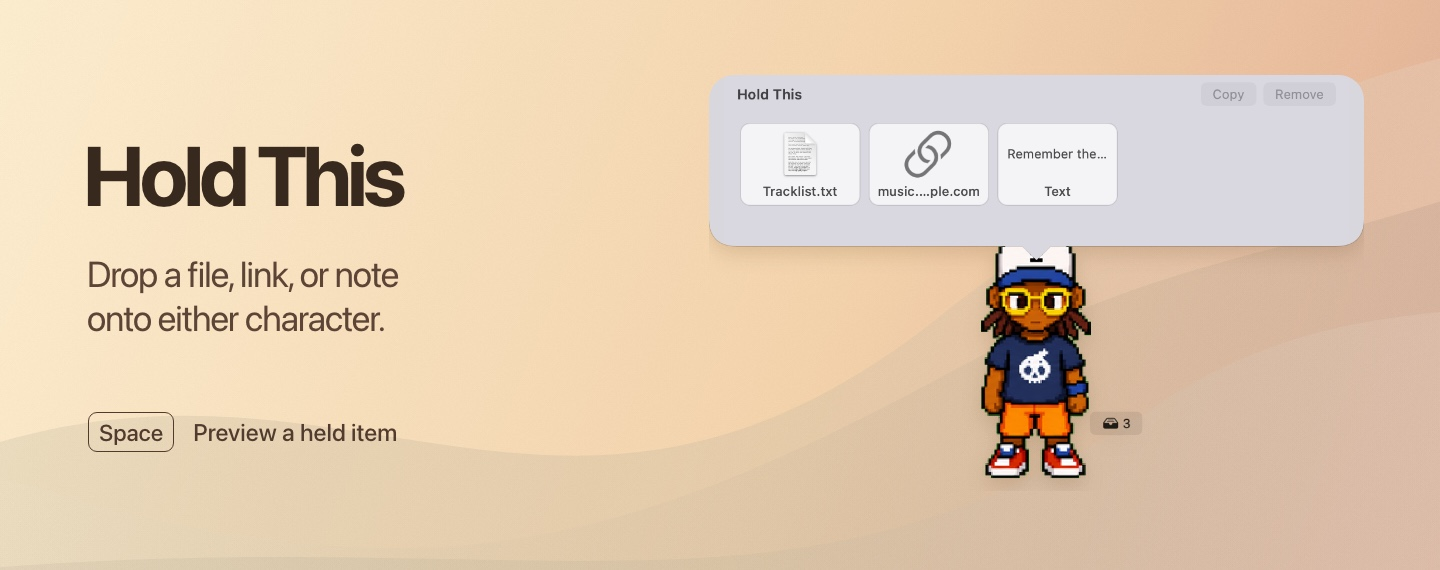
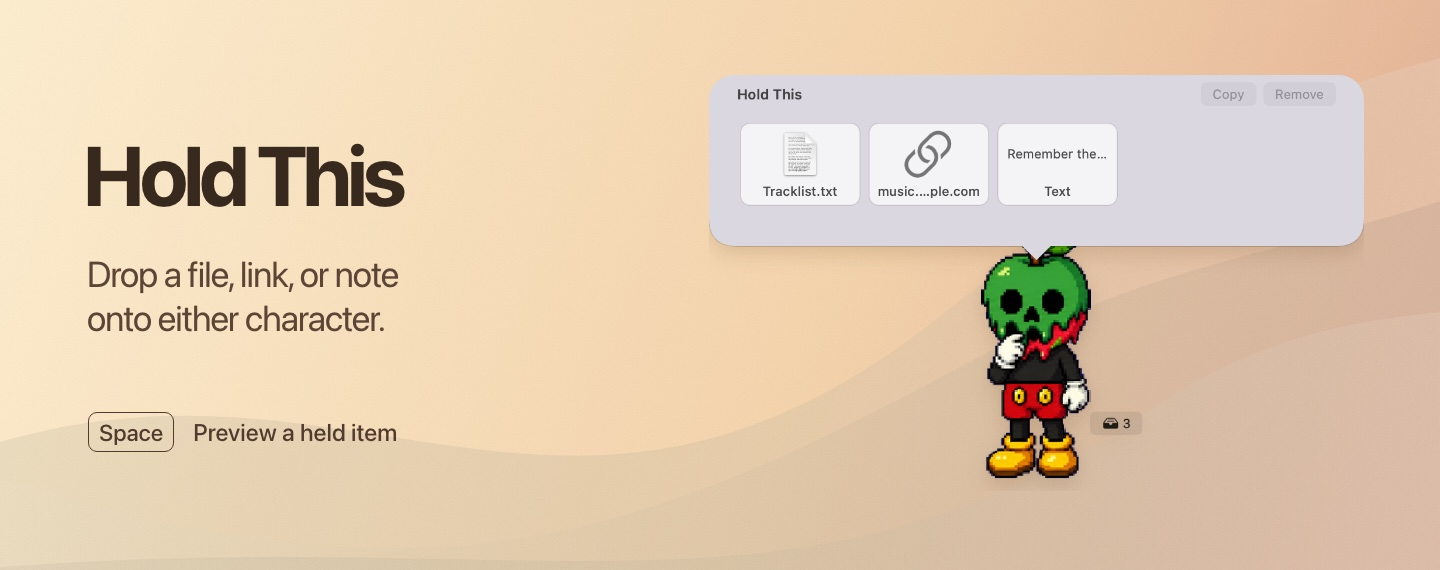
Show Apple Jack in the Hold This gallery screenshot

Changed region(s): [[0.6562, 0.4175, 0.7812, 0.8351]]

diff --git a/README.md b/README.md
@@ -22,7 +22,7 @@ Choose Apple Jack or Fonz, or bring a pet you designed in ChatGPT. Click your co
 
 Drop files, images, links, or text onto either character. Drag them back out when you need them, or select a thumbnail and press **Space** for a preview.
 
-![Detail of the Hold This shelf above Fonz with a track list, a music link, and a text note. Space previews the selected item.](Docs/Screenshots/hold-this.jpg)
+![Detail of the Hold This shelf above Apple Jack with a track list, a music link, and a text note. Space previews the selected item.](Docs/Screenshots/hold-this.jpg)
 
 ### Conversation history
 
